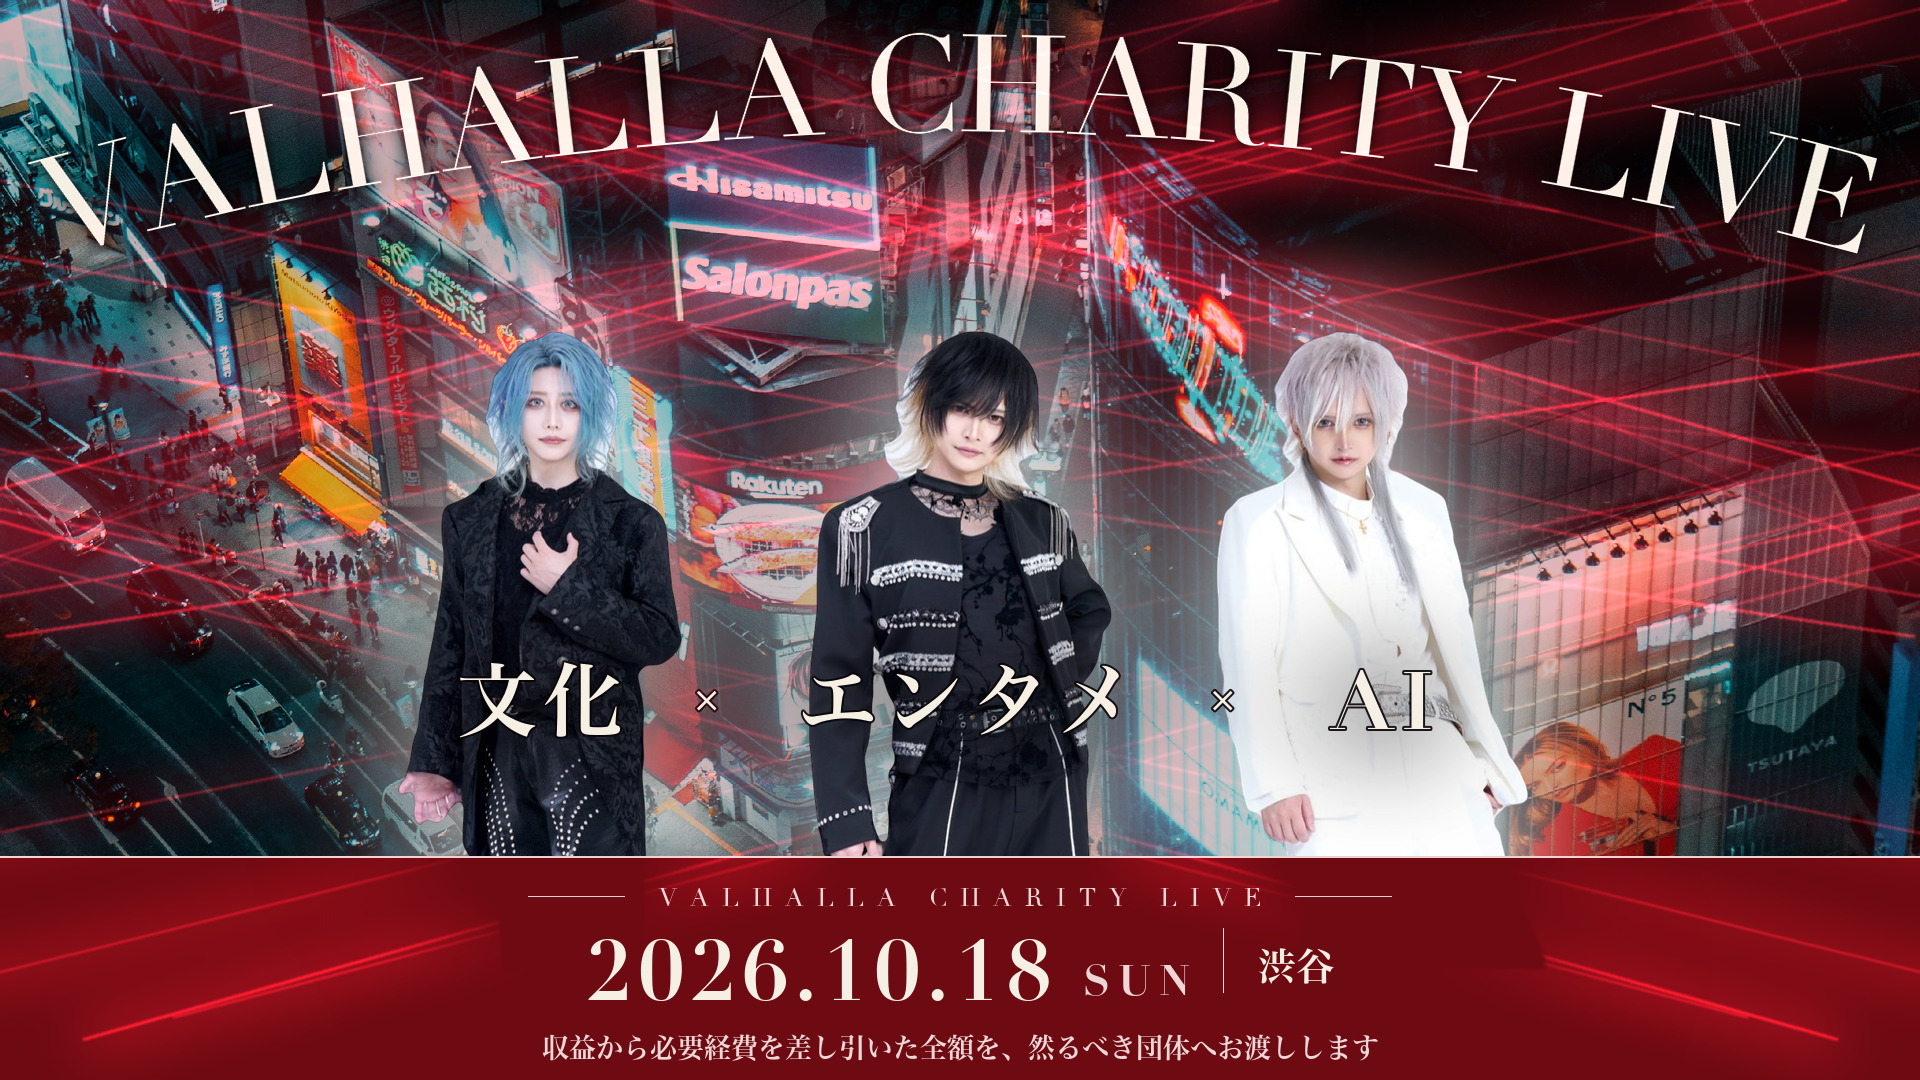
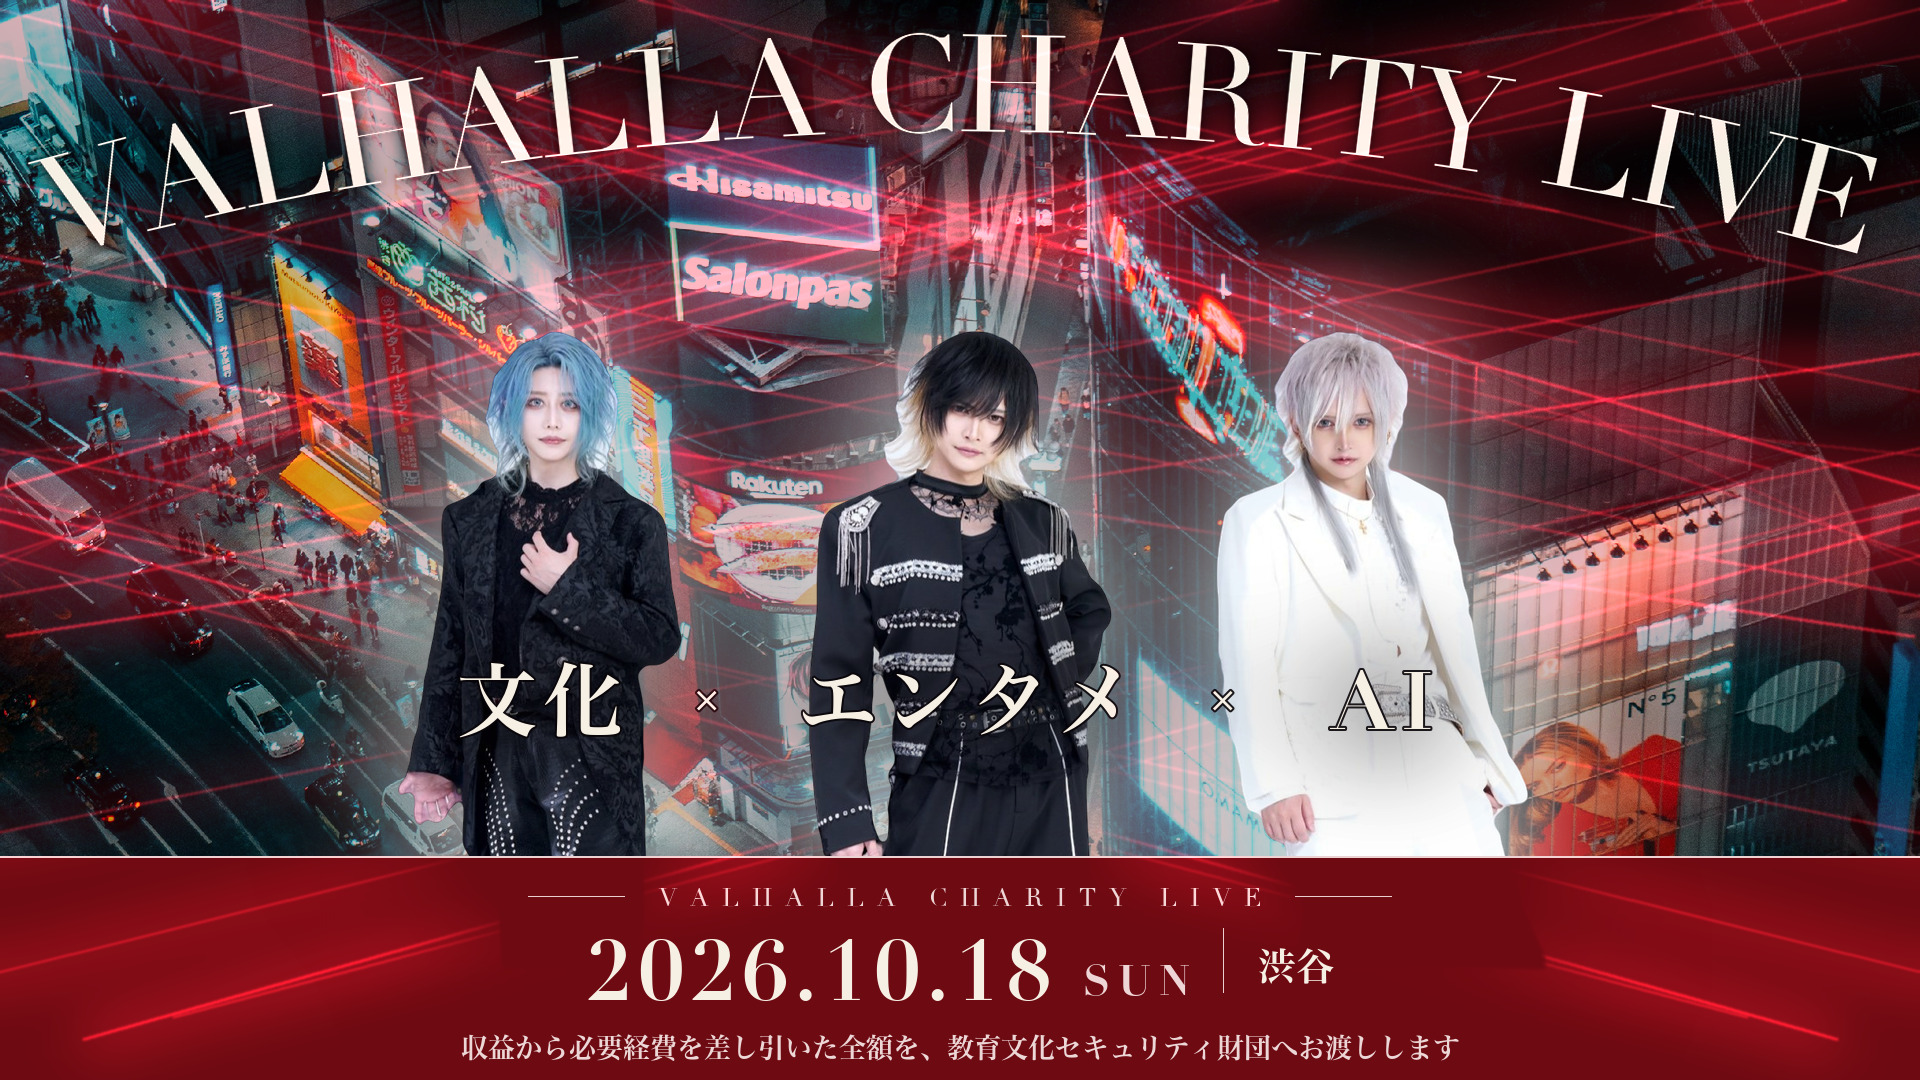
charity: name the foundation
kazuma 決定。「然るべき団体」をやめ、公益財団法人 教育文化セキュリティ財団と
書く。4本のレビューが揃って最優先に挙げていた点で、9/6 に CAMPFIRE から
「寄付先を必ず明記」と言われていた件でもある。

本文5箇所。初出は正式名称、章内の2回目は「同財団」。
Q7 の「お渡し先の団体名は開催後に報告します」は、名前を書いたので削った。

図版にも焼き込まれていたので2枚を焼き直した。メインビジュアルの帯は
1行に収める必要があるので「教育文化セキュリティ財団へお渡しします」とし、
公益財団法人は本文側で名乗る。

Changed region(s): [[0.2188, 0.9472, 0.75, 1.0]]

diff --git a/assets/charity/create_flyer_wide.py b/assets/charity/create_flyer_wide.py
@@ -572,7 +572,7 @@ def add_band(base: Image.Image) -> None:
     d.text((x, band + 90), place_t, font=place_f, fill=CREAM + (255,))
 
     # ③ 支援の一行。ここだけ和文で、静かに置く
-    note = "収益から必要経費を差し引いた全額を、然るべき団体へお渡しします"
+    note = "収益から必要経費を差し引いた全額を、教育文化セキュリティ財団へお渡しします"
     nf = face(MINCHO, 27)
     d.text(((W - d.textlength(note, font=nf)) / 2, band + 178), note, font=nf,
            fill=(236, 214, 214, 235))

diff --git a/assets/charity/create_flow_banner.py b/assets/charity/create_flow_banner.py
@@ -285,7 +285,7 @@ def add_nodes(base: Image.Image) -> None:
 
     td.text(spos((centers_x[2], 549)), "渋谷",
             font=small_font, fill=SILVER, anchor="ma")
-    td.text(spos((centers_x[3], 549)), "然るべき団体へお渡し",
+    td.text(spos((centers_x[3], 549)), "教育文化セキュリティ財団へ",
             font=small_font, fill=SILVER, anchor="ma")
     td.text(spos((centers_x[4], 549)), "教育・文化を支える活動へ",
             font=small_font, fill=SILVER, anchor="ma")
